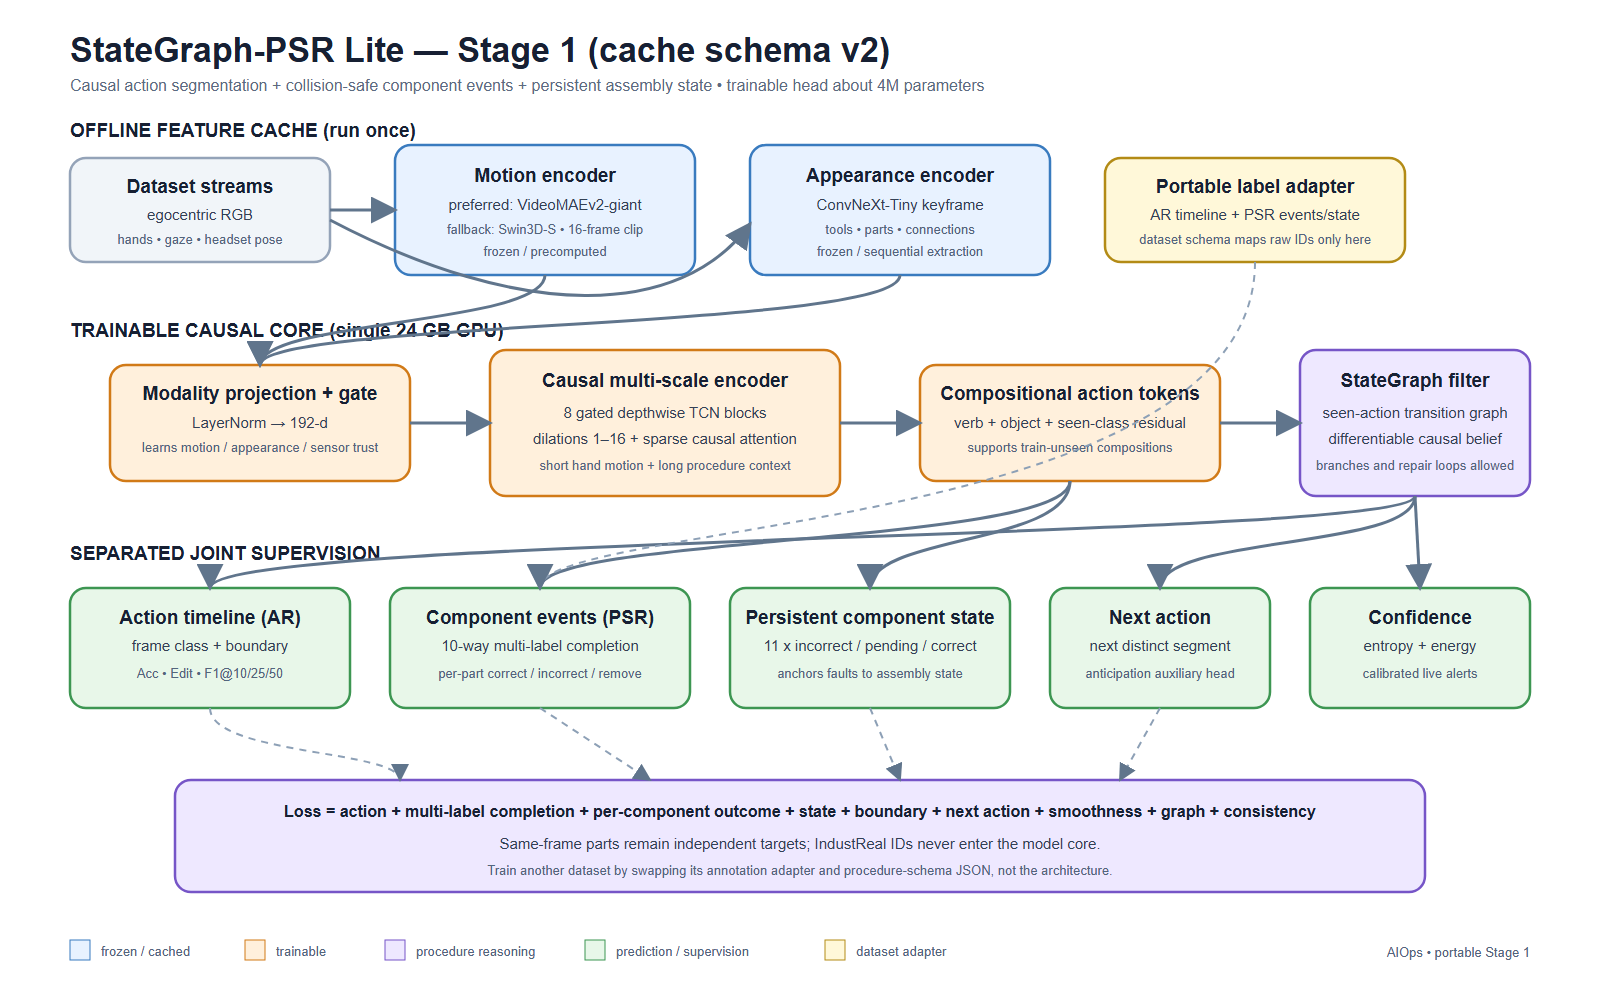
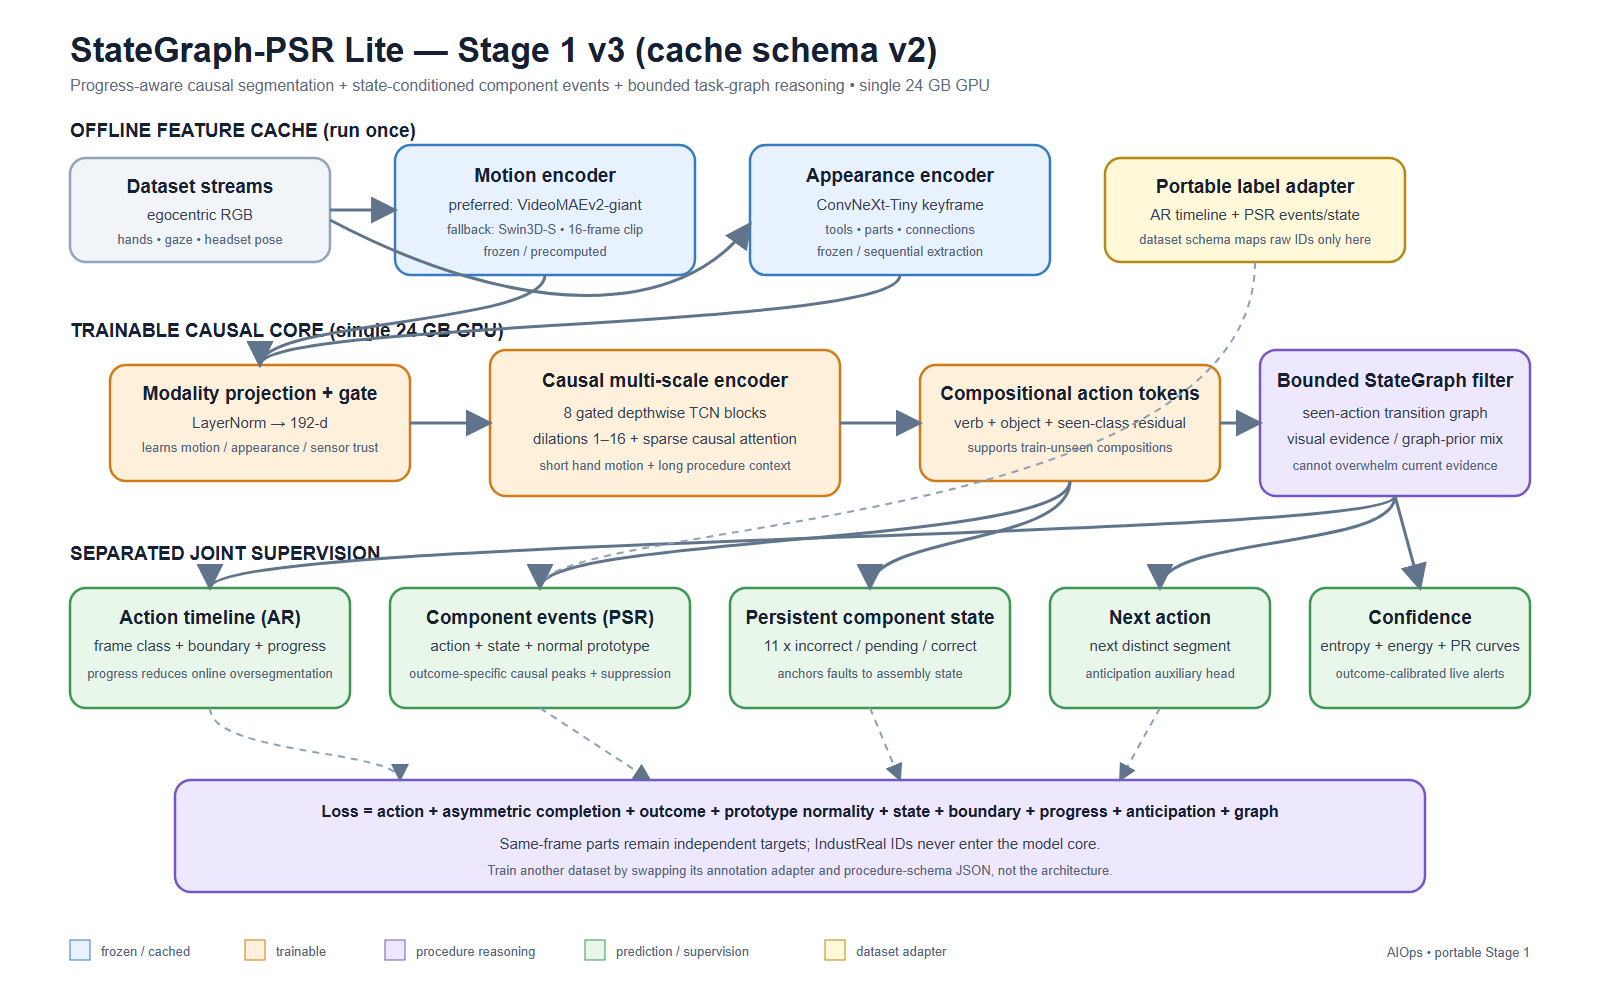
Document StateGraph v3 pilot evidence

diff --git a/docs/stategraph_psr_v3_experiment_report.md b/docs/stategraph_psr_v3_experiment_report.md
@@ -1,0 +1,175 @@
+# StateGraph-PSR v3 experiment report
+
+Date: 2026-07-20
+
+## Decision
+
+The implementation is healthy enough for controlled pilots, but the fallback
+feature configuration is **not yet approved for the final 80-epoch benchmark**.
+The four-recording overfit test proves that the model and losses can learn both
+segmentation and incorrect events. On the official recording-level validation
+split, however, the rare-fault result remains too fragile and false-alert-heavy.
+
+This distinction matters: extending a weak pilot to 80 epochs does not create
+new fault information. The next long run should use the preferred VideoMAEv2
+SSv2 cache and should retain early stopping and the multi-seed gate below.
+
+The test split has not been used.
+
+## Data and compute
+
+- Dataset: IndustReal, cache schema v2.
+- Split: 36 train recordings, 16 validation recordings, 0 test records in the
+  current cache index.
+- Sampled rows: 15,801 train and 7,613 validation at 10 FPS with stride 5.
+- Completion events, train: 235 correct, 14 incorrect, 66 remove.
+- Completion events, validation: 109 correct, 5 incorrect, 34 remove.
+- Cached visual inputs: fallback Swin3D-S motion and ConvNeXt-Tiny appearance,
+  both represented as precomputed 768-d arrays.
+- Hardware: RTX 4090, 24 GB; BF16; batch size 2; accumulation 4.
+
+The 14-to-235 incorrect/correct training ratio is the main statistical risk.
+Metrics for five validation faults can move by roughly 20 recall points from a
+single event, so no single-seed fault result should be treated as stable.
+
+## Architecture refinements evaluated
+
+The v3 branch adds:
+
+1. a bounded evidence/transition-prior mixture, preventing the procedure graph
+   from overwhelming current visual evidence;
+2. a causal progress head inspired by progress-aware online segmentation;
+3. asymmetric completion loss and outcome-aware batches for sparse events;
+4. action- and state-conditioned component event features;
+5. per-component normal-execution prototypes and an anomaly loss;
+6. an outcome-balanced event-to-state mapping learned from training only;
+7. a single-outcome event decoder with temporal suppression;
+8. outcome-specific peak proposals so majority-correct evidence cannot hide a
+   sharper incorrect peak;
+9. causal state-transition evidence using positive probability differences;
+10. strict and latency-aware event metrics at +/-1, +/-2, and +/-4 cache steps.
+
+## Results
+
+### Functional overfit gate
+
+Four-recording v3 overfit, 15 epochs:
+
+| Metric | Validation on repeated subset |
+|---|---:|
+| Frame accuracy | 60.39 |
+| Edit | 48.21 |
+| F1@50 | 45.67 |
+| Completion-event F1 | 35.51 |
+| Incorrect-event precision / recall / F1 | 100 / 100 / 100 |
+| Remove-event F1 | 66.67 |
+| State accuracy | 93.53 |
+| Incorrect normality AP | 100 |
+
+This is a wiring test, not a generalization result. It confirms gradients,
+labels, rare-window sampling, and the event/state branches can fit fault data.
+
+### Official seed-7 pilot
+
+Twenty epochs on all 36 training recordings; best checkpoint at epoch 15:
+
+| Metric | Result |
+|---|---:|
+| Frame accuracy | 28.51 |
+| Edit | 26.70 |
+| F1@10 / F1@25 / F1@50 | 25.84 / 21.81 / 12.80 |
+| Graph-filtered vs raw F1@50 | 12.80 vs 12.56 |
+| State accuracy | 87.19 |
+| Incorrect normality AP | 7.05 |
+| Mean anomaly, correct / incorrect | 0.295 / 0.327 |
+
+An intermediate outcome-specific decoder found one incorrect event, but at
+below 0.1% precision. A training-derived refractory rule (the minimum observed
+same-component gaps were 4.0 s for any event and 14.5 s between installations)
+removed that unstable match. Final strict and latency-aware incorrect F1 are
+therefore zero. The prototype score weakly ranks faults in this seed, but does
+not produce a deployable alert policy.
+
+The procedure graph was helpful but small (+0.24 F1@50), which is the intended
+behavior of the bounded filter. Segmentation continued improving late in the
+pilot, so action recognition may benefit from more epochs. Fault recognition is
+limited by representation and sample support, not merely optimization length.
+
+### Official seed-17 pilot
+
+Twenty-five epochs; best checkpoint at epoch 22:
+
+| Metric | Result |
+|---|---:|
+| Frame accuracy | 30.77 |
+| Edit | 27.53 |
+| F1@10 / F1@25 / F1@50 | 29.38 / 24.78 / 15.32 |
+| Graph-filtered vs raw F1@50 | 15.32 vs 15.06 |
+| State accuracy | 87.46 |
+| Remove-event precision / recall / F1 | 17.86 / 9.80 / 12.66 |
+| Incorrect-event precision / recall / F1 | 0 / 0 / 0 |
+| Incorrect-event PR-AUC | 0 |
+| Incorrect normality AP | 5.36 |
+
+This independent seed confirms repeatable action improvement and a small,
+non-destructive graph benefit. It also confirms that the current fault branch
+does not generalize. The incorrect normality means actually reversed in this
+seed (0.252 for correct versus 0.249 for incorrect), so another 55 epochs on
+the same frozen features is not an evidence-based remedy.
+
+## Readiness gate
+
+Approve the 80-epoch, early-stopped run only after at least two of three
+independent 20--30 epoch seeds satisfy all of the following on validation:
+
+- action Edit and F1@50 improve over the v2 pilot and do not peak immediately;
+- incorrect precision and recall are both non-zero;
+- incorrect PR-AUC beats the empirical positive-rate baseline;
+- a manually reviewed alert table shows plausible component and time matches;
+- the fixed-threshold result does not collapse while calibrated F1 improves;
+- graph-filtered action metrics are neutral or better than raw metrics.
+
+Even after passing this gate, call the fallback-cache result an ablation. The
+preferred benchmark should replace Swin3D-S with cached VideoMAEv2-giant SSv2
+features. More clearly annotated incorrect examples, or a procedural-error
+pretraining dataset such as EgoPER, are higher-value changes than increasing
+the temporal head size.
+
+## Dashboard
+
+Every run writes TensorBoard events, `history.jsonl`, `system.jsonl`, a best
+checkpoint, and a JSON summary. The live desktop dashboard is served at:
+
+```text
+http://192.168.20.148:6006
+```
+
+The desktop system Python had an incompatible OpenSSL package, so TensorBoard
+is isolated at `/home/aiops/.venvs/aiops-dashboard`; the training environment
+was not changed. Restart it with:
+
+```bash
+nohup /home/aiops/.venvs/aiops-dashboard/bin/python -m tensorboard.main \
+  --logdir /home/aiops/AIOps/runs --bind_all --port 6006 \
+  >/home/aiops/AIOps/runs/tensorboard.log 2>&1 </dev/null &
+```
+
+The reusable monitor is `aiops.training.monitoring.TrainingMonitor`. It logs
+task losses, validation metrics, learning rate, gradient norm, graph strength,
+and NVIDIA utilization, allocated/reserved/peak memory, temperature, and power.
+
+## Evidence base
+
+- Shen et al., *Progress-Aware Online Action Segmentation for Egocentric
+  Procedural Task Videos*, CVPR 2024.
+- Lee et al., *Error Detection in Egocentric Procedural Task Videos*, CVPR
+  2024 (EgoPER).
+- Flaborea et al., *PREGO: Online Mistake Detection in Procedural Egocentric
+  Videos*, CVPR 2024.
+- Ridnik et al., *Asymmetric Loss for Multi-Label Classification*, ICCV 2021.
+- Bahrami et al., *How Much Temporal Long-Term Context is Needed for Action
+  Segmentation?*, ICCV 2023.
+- Xu et al., *Differentiable Task Graph Learning*, 2024.
+
+Full paper links and the design-to-evidence mapping are in
+`docs/stategraph_psr_v3_refinement.md`.

diff --git a/CODEX_CONTEXT.md b/CODEX_CONTEXT.md
@@ -252,6 +252,31 @@ event-threshold/PR calibration, stronger outcome-aware sampling, three pilot
 seeds, and then a controlled repeat with the preferred VideoMAEv2-giant SSv2
 features. The test split remains untouched.
 
+### v3 refinement and live monitoring
+
+The v3 implementation adds bounded graph fusion, progress supervision,
+asymmetric completion loss, guaranteed rare-event windows, state/action event
+conditioning, component normality prototypes, balanced event-to-state mapping,
+outcome-specific event peaks, and causal state-transition evidence. The desktop
+suite passes 25 tests.
+
+The four-recording overfit gate reached 60.39 frame accuracy, 45.67 F1@50,
+100 incorrect-event F1, and 93.53 state accuracy. The official seed-7 20-epoch
+pilot reached 28.51 frame accuracy, 26.70 Edit, 12.80 F1@50, and 87.19 state
+accuracy. An intermediate decoder recovered one validation incorrect event at
+below 0.1% precision, but the final training-derived refractory rule removed
+that unstable match. A second seed ran for 25 epochs and improved frame
+accuracy/F1@50 to 30.77/15.32 while incorrect precision, recall, F1, and PR-AUC
+stayed zero. Tolerance windows through two seconds found no hidden delayed
+detections. This is not sufficient evidence for the final 80-epoch
+fallback-feature run.
+
+Exact results and the go/no-go gate are in
+`docs/stategraph_psr_v3_experiment_report.md`. The live TensorBoard dashboard is
+`http://192.168.20.148:6006`; its isolated runtime is
+`/home/aiops/.venvs/aiops-dashboard`. Training and NVIDIA telemetry are written
+under `/home/aiops/AIOps/runs`.
+
 ## Known risks and decisions
 
 - The first cache-v2 pilot is a diagnostic baseline, not a final accuracy claim; it used fallback Swin3D-S + ConvNeXt features and failed the incorrect-event gate.

diff --git a/docs/stategraph_psr_v3_refinement.md b/docs/stategraph_psr_v3_refinement.md
@@ -1,5 +1,9 @@
 # StateGraph-PSR v3 refinement and live training dashboard
 
+Current pilot measurements and the 80-epoch go/no-go decision are recorded in
+[`stategraph_psr_v3_experiment_report.md`](stategraph_psr_v3_experiment_report.md).
+The test split remains sealed while the architecture is being selected.
+
 ## Why v2 was not ready for a long run
 
 The cache-v2 seed-7 pilot was useful because it failed early and cheaply. Its